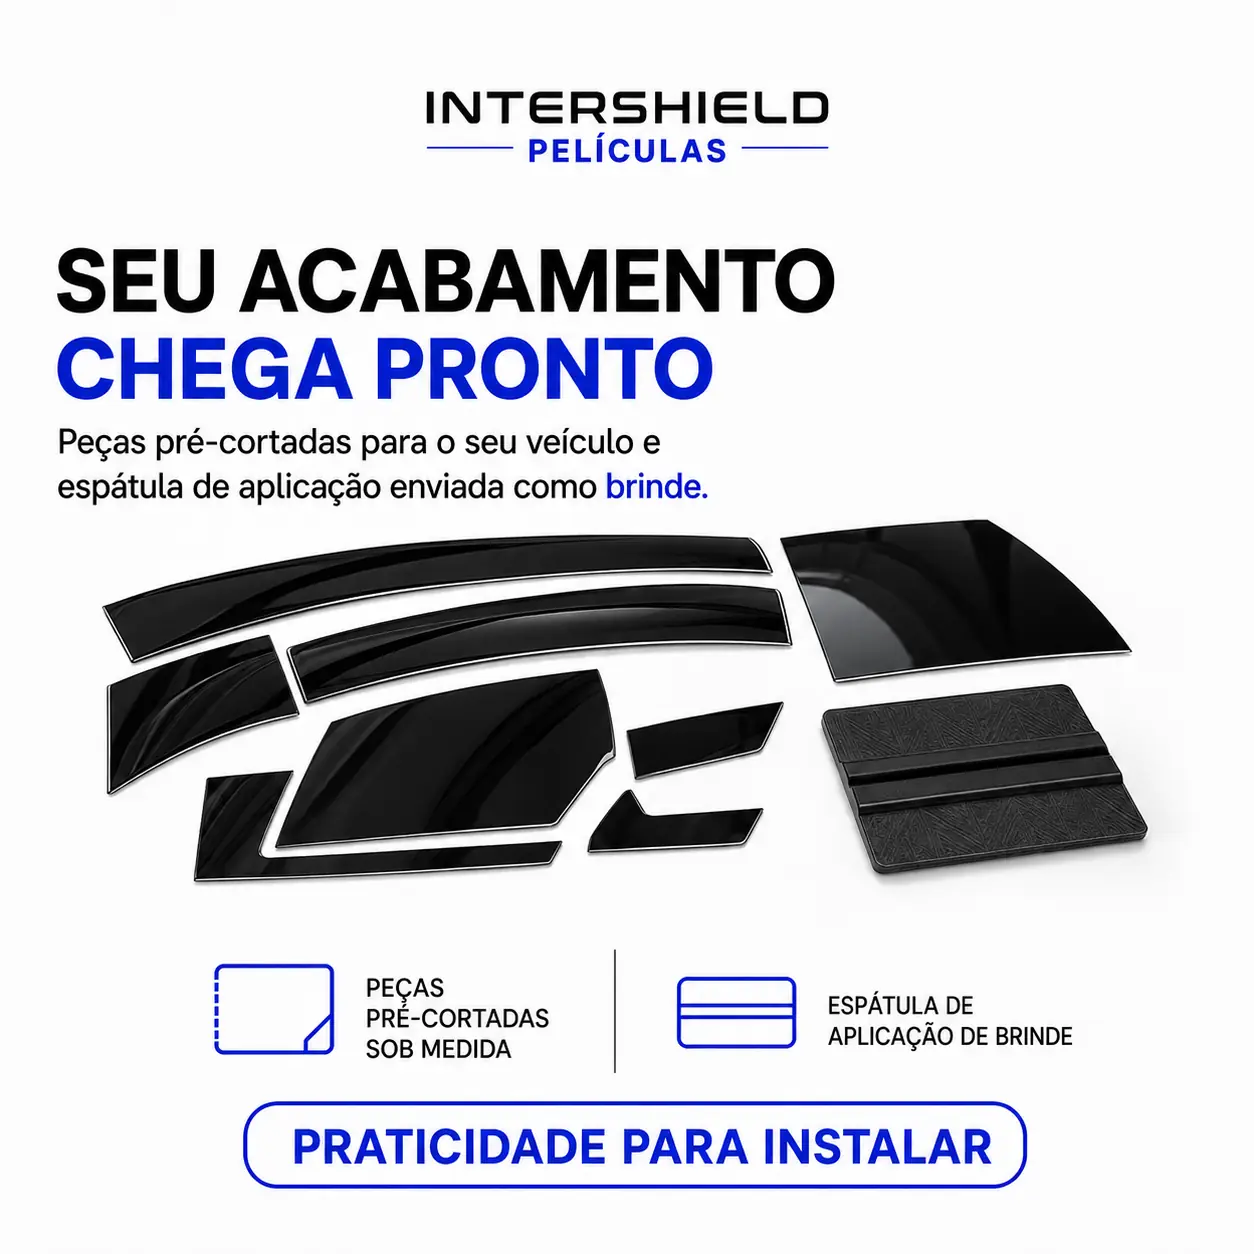
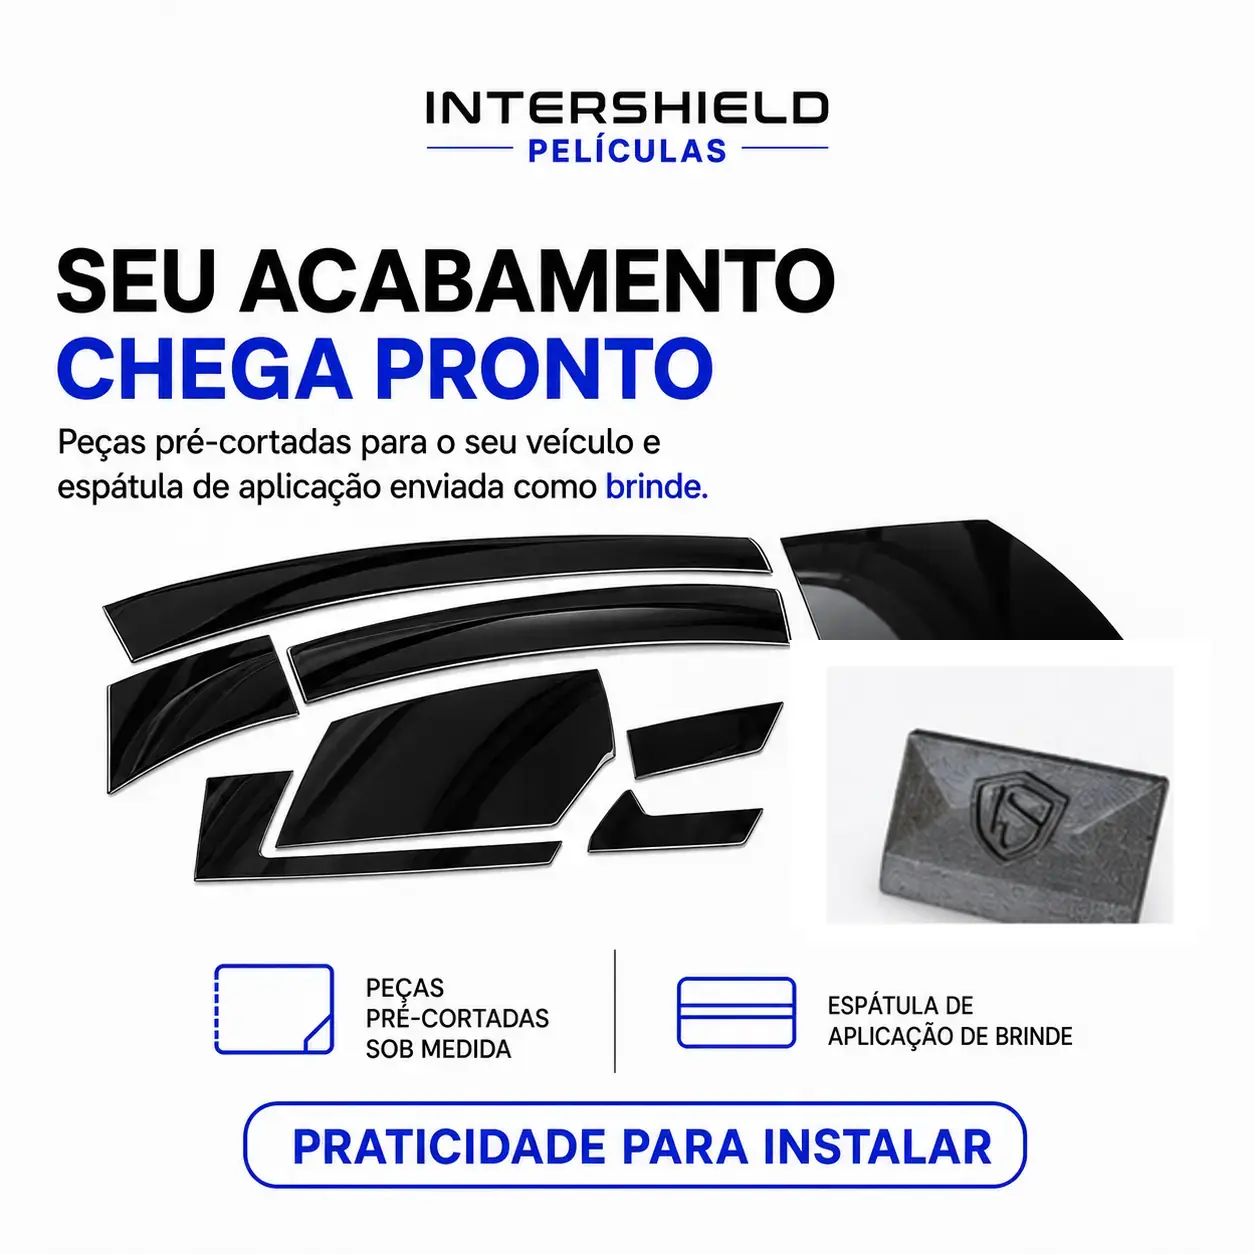
Padronizar espatula personalizada da InterShield

Changed region(s): [[0.6531, 0.4976, 0.933, 0.7464]]

diff --git a/src/components/PurchaseBenefitNotice.tsx b/src/components/PurchaseBenefitNotice.tsx
@@ -6,6 +6,7 @@ import {
   PackageCheck,
   PanelsTopLeft,
 } from "lucide-react";
+import Image from "next/image";
 
 import type { PurchaseBenefitKind } from "@/lib/purchaseBenefits";
 
@@ -28,8 +29,8 @@ const ppfItems = [
   },
   {
     icon: PackageCheck,
-    title: "Espátula de aplicação",
-    text: "Ajuda a remover o líquido e acomodar o PPF.",
+    title: "Espátula personalizada",
+    text: "Modelo oficial da InterShield para auxiliar na aplicação.",
   },
   {
     icon: BookOpenCheck,
@@ -53,7 +54,7 @@ export function PurchaseBenefitNotice({
   if (compact) {
     return (
       <aside
-        aria-label={isPpfKit ? "Kit completo para aplicação de PPF" : "Brinde para aplicação do adesivo"}
+        aria-label={isPpfKit ? "Kit completo para aplicação de PPF" : "Espátula personalizada grátis"}
         className={`rounded-[20px] border border-blue-200 bg-blue-50/70 p-4 ${className}`}
       >
         <div className="flex gap-3">
@@ -68,12 +69,12 @@ export function PurchaseBenefitNotice({
             <p className="text-sm font-bold text-slate-950">
               {isPpfKit
                 ? "Você recebe o kit de aplicação completo"
-                : "Espátula de aplicação de brinde"}
+                : "Espátula personalizada grátis!"}
             </p>
             <p className="mt-1 text-xs leading-5 text-slate-600">
               {isPpfKit
-                ? "PPF pré-cortado, solução deslizante, espátula, manual ilustrado e suporte especializado."
-                : "Além do acabamento adesivo, enviamos uma espátula para auxiliar na aplicação."}
+                ? "PPF pré-cortado, solução deslizante, espátula personalizada, manual ilustrado e suporte especializado."
+                : "A espátula oficial da InterShield acompanha o acabamento adesivo para auxiliar na aplicação."}
             </p>
           </div>
         </div>
@@ -87,25 +88,34 @@ export function PurchaseBenefitNotice({
         aria-labelledby="adhesive-gift-title"
         className={`overflow-hidden rounded-[30px] border border-blue-200 bg-[linear-gradient(120deg,#eff6ff_0%,#ffffff_60%,#eef2ff_100%)] p-7 shadow-sm sm:p-9 ${className}`}
       >
-        <div className="grid gap-7 lg:grid-cols-[auto_1fr_auto] lg:items-center">
-          <span className="flex h-14 w-14 items-center justify-center rounded-2xl bg-blue-600 text-white shadow-lg shadow-blue-900/15">
-            <Gift className="h-7 w-7" />
-          </span>
+        <div className="grid gap-7 lg:grid-cols-[128px_1fr_auto] lg:items-center">
+          <div className="relative flex h-24 w-32 items-center justify-center overflow-hidden rounded-2xl border border-blue-100 bg-white p-2 shadow-lg shadow-blue-900/10">
+            <Image
+              src="/espatula-personalizada-intershield.png"
+              width={182}
+              height={140}
+              alt="Espátula personalizada oficial da InterShield"
+              className="h-full w-full object-contain"
+            />
+            <span className="absolute right-2 top-2 flex h-7 w-7 items-center justify-center rounded-lg bg-blue-600 text-white shadow-sm">
+              <Gift className="h-4 w-4" />
+            </span>
+          </div>
           <div>
             <p className="text-[11px] font-bold uppercase tracking-[0.24em] text-blue-600">
-              Brinde incluso na compra
+              Brinde personalizado incluso
             </p>
             <h2 id="adhesive-gift-title" className="mt-2 text-2xl font-bold tracking-tight text-slate-950 sm:text-3xl">
-              Sua espátula de aplicação vai junto com o acabamento
+              Espátula personalizada grátis!
             </h2>
             <p className="mt-3 max-w-2xl text-sm leading-7 text-slate-600">
-              Você recebe as peças adesivas conforme o anúncio e uma espátula de
-              brinde para ajudar no posicionamento, na fixação e no acabamento
-              durante a instalação.
+              Você recebe as peças adesivas conforme o anúncio e a espátula
+              oficial da InterShield para ajudar no posicionamento, na fixação e
+              no acabamento durante a instalação.
             </p>
           </div>
           <span className="w-fit rounded-full border border-blue-200 bg-white px-4 py-2 text-xs font-bold text-blue-700 shadow-sm">
-            Espátula grátis
+            Vai no seu pedido
           </span>
         </div>
       </section>

diff --git a/src/lib/purchaseBenefits.ts b/src/lib/purchaseBenefits.ts
@@ -12,13 +12,13 @@ const STANDARD_GALLERY_IMAGES: Record<PurchaseBenefitKind, string> = {
 
 export const PPF_APPLICATION_EXTRAS = [
   "Solução deslizante para auxiliar na aplicação",
-  "Espátula de aplicação",
+  "Espátula personalizada da InterShield",
   "Manual ilustrado de instalação",
   "Suporte especializado da InterShield",
 ] as const;
 
 export const ADHESIVE_APPLICATION_EXTRAS = [
-  "Espátula de aplicação enviada como brinde",
+  "Espátula personalizada da InterShield enviada grátis",
 ] as const;
 
 export function getPurchaseBenefitKind(

diff --git a/src/components/InfoSection.tsx b/src/components/InfoSection.tsx
@@ -32,7 +32,7 @@ const categories = [
     description:
       "Opções em Black Piano, Preto Fosco Poroso e Fibra de Carbono 4D, produzidas com recorte específico para cada modelo.",
     details: "Black Piano • Fosco • Fibra 4D",
-    purchaseBenefit: "Espátula de aplicação de brinde",
+    purchaseBenefit: "Espátula personalizada grátis",
     href: "/black-piano",
     action: "Conhecer os acabamentos",
     number: "03",

diff --git a/INTERSHIELD_MASTER_SPEC.md b/INTERSHIELD_MASTER_SPEC.md
@@ -13,6 +13,11 @@ Criar uma plataforma digital para InterShield Películas com foco em proteção 
 - Tipografia clara, com espaçamento tecnológico e hierarquia visual definida.
 - Uso restrito de sombras e nenhum gradiente exagerado.
 - Todas as imagens e ícones devem reforçar a marca, sem gerar imagens artificiais.
+- A espátula oficial de envio é o modelo cinza personalizado com o escudo da
+  InterShield, armazenado em `public/espatula-personalizada-intershield.png`.
+- Não substituir a espátula oficial por modelos genéricos, pretos ou sem o
+  símbolo da InterShield em páginas, anúncios ou novas artes.
+- Ao destacar o brinde, usar a chamada "Espátula personalizada grátis!".
 
 ## Arquitetura
 
